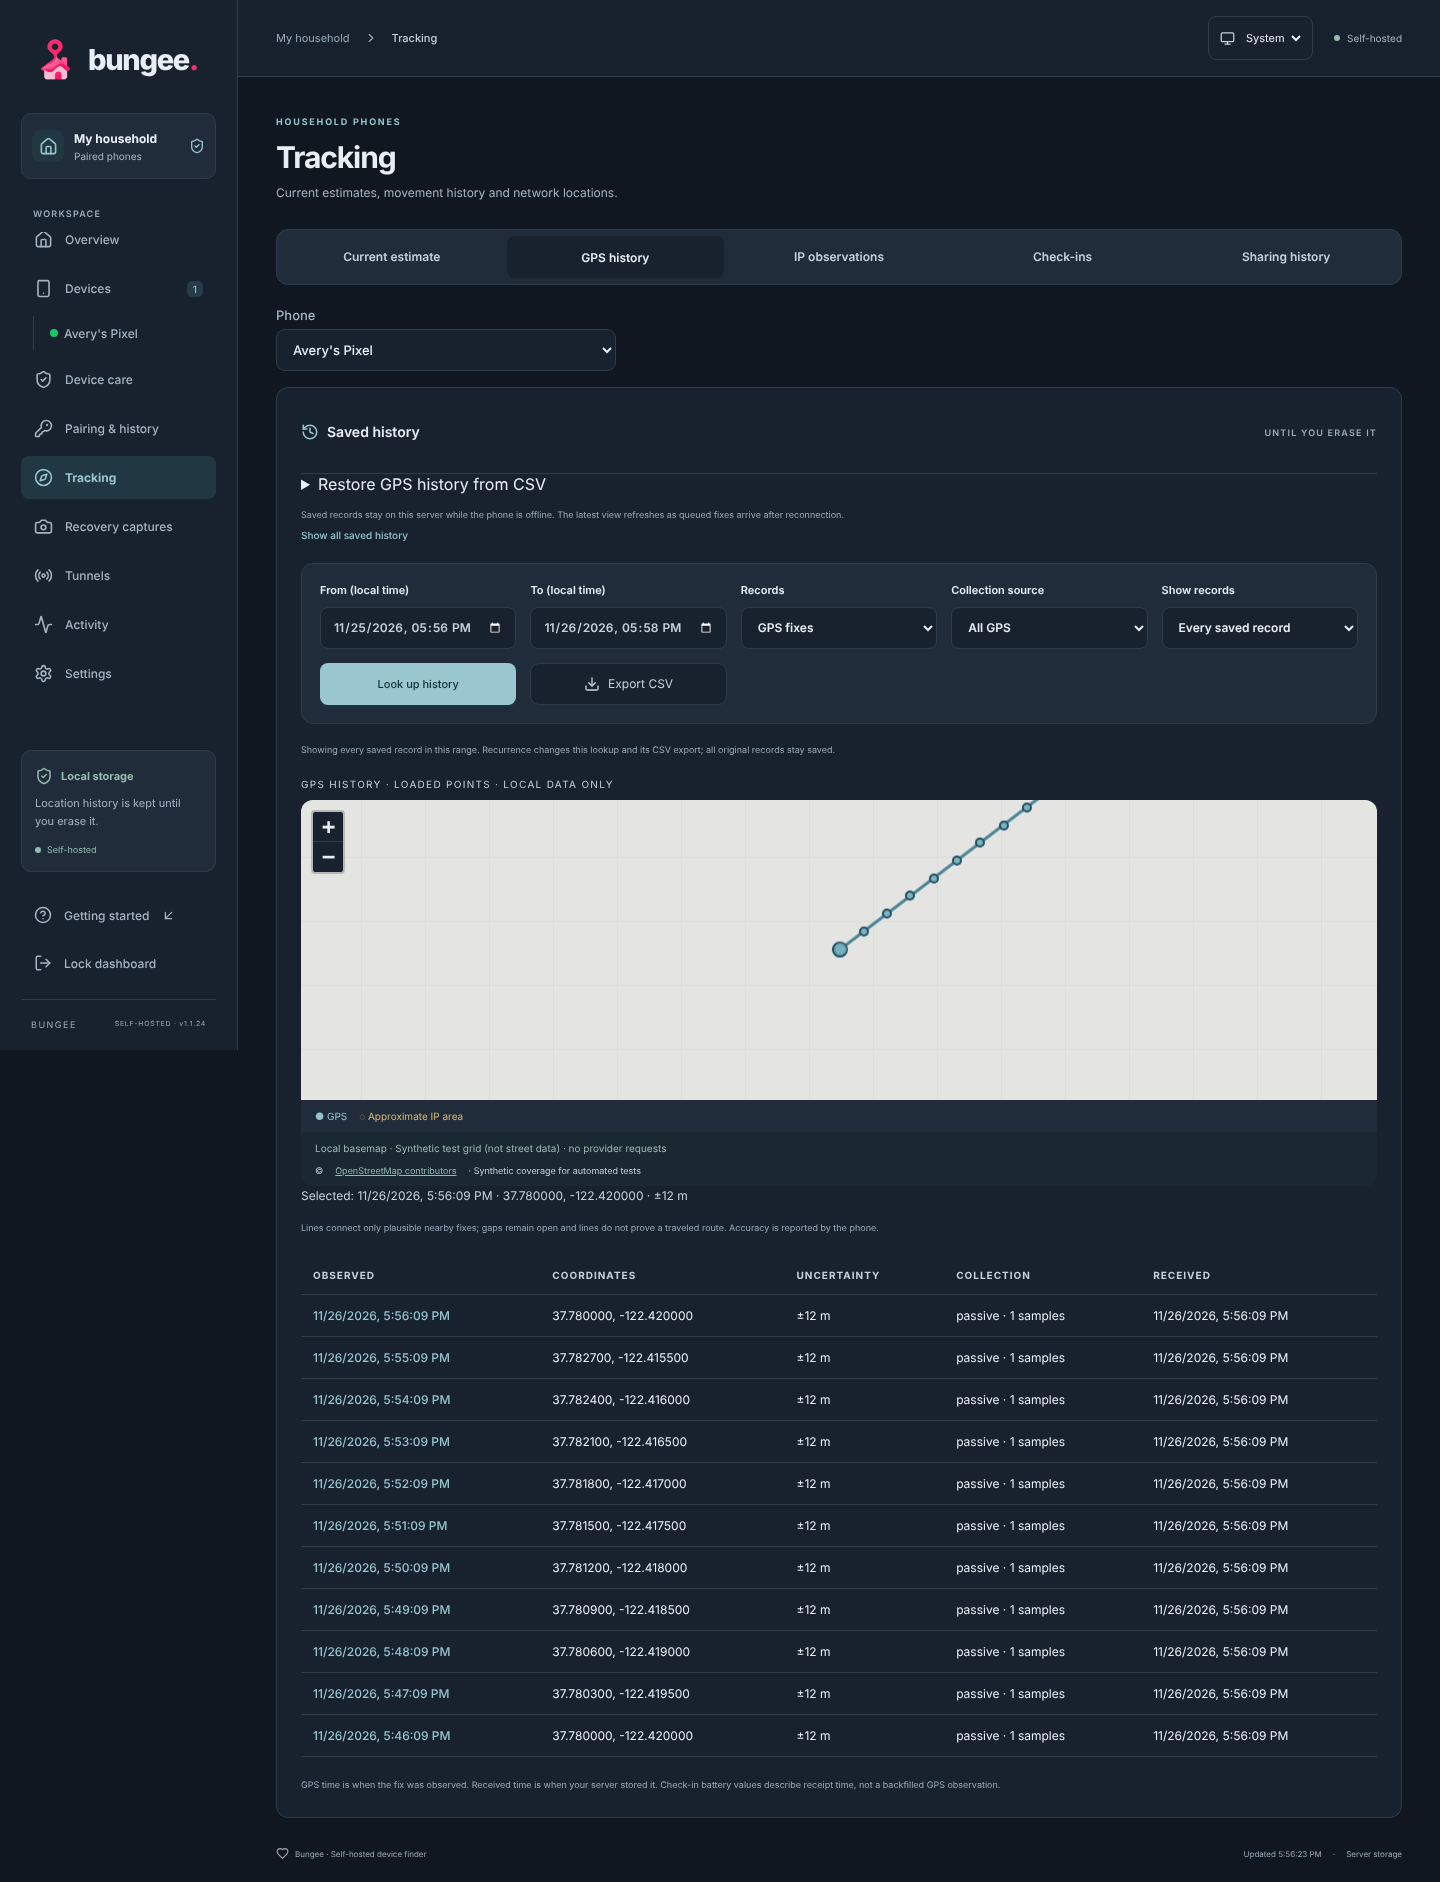
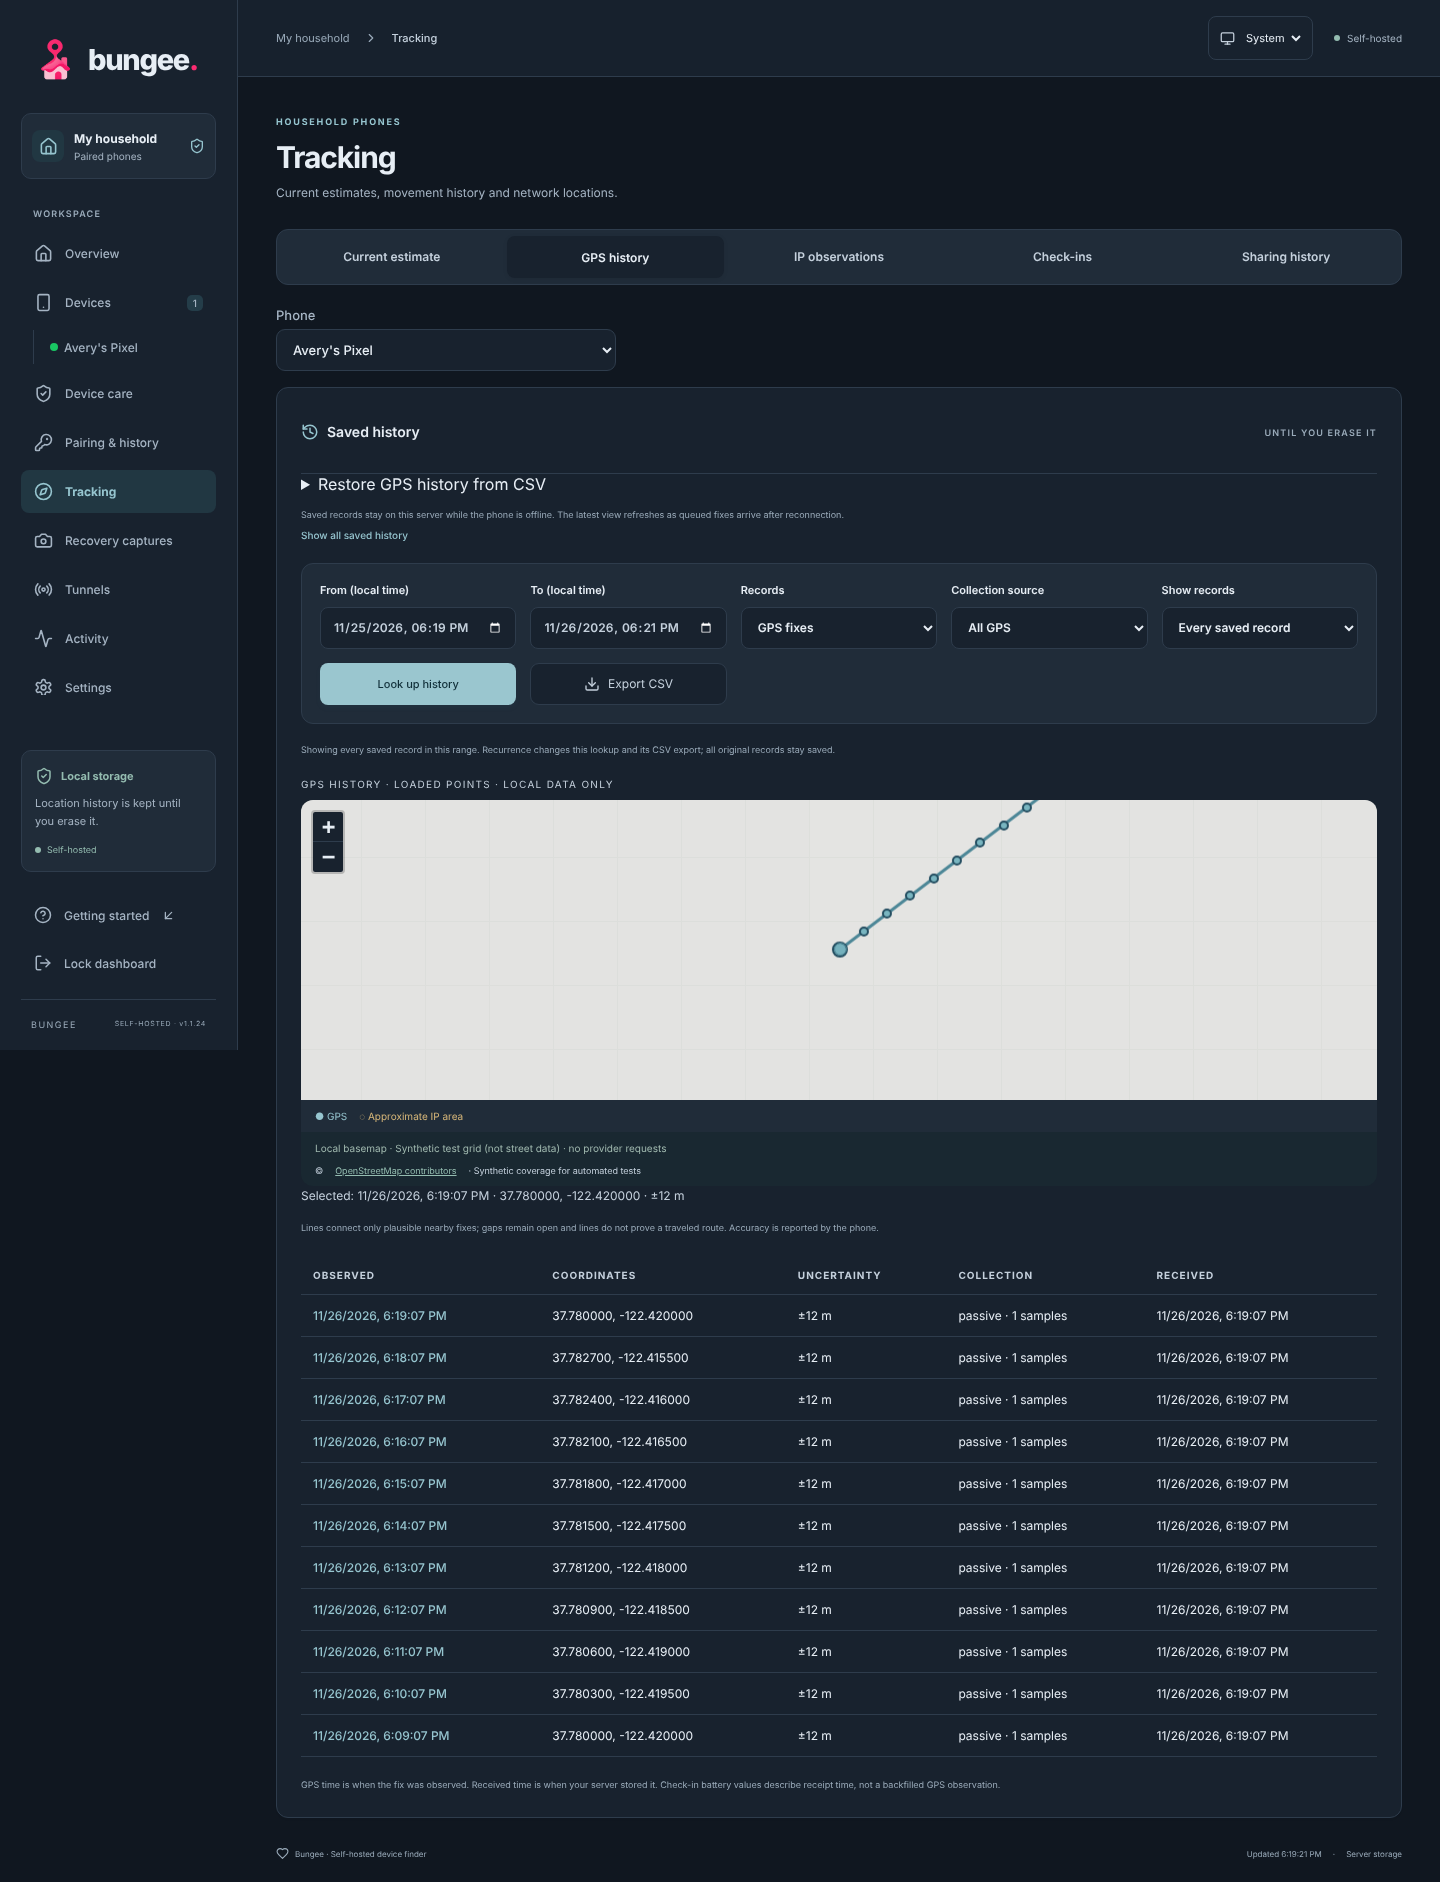
Replace the README lead screenshot that still showed the 1.1.22 GUI
overview.png is written by the vector-browser map-permission test, which only
passes for an unprivileged user (root bypasses chmod 000). Earlier runs as
root died before that capture, so the README lead image kept the old GUI
(v1.1.22, old phone card and links). Re-run that file and browser.mjs as a
non-root user so every capture reflects 1.1.24.

- overview.png and regional-street-tracking.png regenerated; the street-map
  fixture now names its phone "Avery's Pixel" instead of the default.
- Scroll the page and any scrolled inner list to the top before these
  captures; a scrolled navigation list had clipped the first sidebar row in
  six images (overview, street tracking and the four history captures).
- SCREENSHOTS and VALIDATION record the non-root requirement.

No release, version, workflow or signing file changed.

Claude-Session: https://claude.ai/code/session_01RQWcUGXYYEsW2cUDucLvP5

diff --git a/docs/VALIDATION.md b/docs/VALIDATION.md
@@ -8,13 +8,13 @@ This pass changed documentation, browser-fixture screenshot captures and one sty
 
 **What was documented.** The 1.1.24 behavior: active-profile focus and its limits, targeted profile commands, phone diagnostics, resumable and retried phone update downloads and what their messages (including `HTTP 404`) mean, date filters, GPS purge for all phones, read-only host `status`, and the renamed pages. Every dashboard label and number written into the documents was checked against the web, server and Android source, and several first drafts were corrected by that check.
 
-**Screenshots.** All captures were regenerated from the browser fixtures in a dark appearance, and six were added (device events, log storage and cleanup, the location-services notice, mobile Activity, phone diagnostics, phone app updates). They show synthetic fixture data. The container's fonts differ from the earlier captures, so every image changed.
+**Screenshots.** All captures were regenerated from the browser fixtures in a dark appearance, and six were added (device events, log storage and cleanup, the location-services notice, mobile Activity, phone diagnostics, phone app updates). They show synthetic fixture data. The container's fonts differ from the earlier captures, so every image changed. The lead overview and street-map captures come from `tests/vector-browser.mjs`, whose map-permission fixture only works for an unprivileged user, so that file and `tests/browser.mjs` were run as a non-root user to take them. The capture helpers now reset scrolled navigation lists first, because a list scrolled by an earlier click had clipped the first sidebar row in six images.
 
 | Check | Result |
 | --- | --- |
 | Documentation | `scripts/check-doc-images.py` passes (51 embedded images exist); 138 Python tests pass |
 | API (`npm test`) | 27 TypeScript-helper tests pass; 138 of 139 API tests pass. The one failure is "unreadable regional metadata cannot suppress the bundled overview…", which depends on file permissions and fails identically on unmodified code when run as root |
-| Browser | 44 of 47 Chromium checks pass and 2 Firefox checks were skipped (no Firefox installed). The one failure is the same "unreadable regional metadata" case |
+| Browser | 44 of 47 Chromium checks pass and 2 Firefox checks were skipped (no Firefox installed). The one failure is the same "unreadable regional metadata" case, which passes when the file is run as a non-root user (`vector-browser.mjs` 6 of 6, `browser.mjs` 20 of 20) |
 | Not run | Rust and Kotlin checks (no source changed in this pass), Android builds, Firefox, and every physical-device behavior. The documented 1.1.24 behaviors were reviewed against the source here, not exercised on a phone |
 
 ## 1.1.23: DDIL backfill, device-state events, and activity maintenance

diff --git a/docs/SCREENSHOTS.md b/docs/SCREENSHOTS.md
@@ -15,7 +15,7 @@ npm run test:browser
 python3 scripts/check-doc-images.py
 ```
 
-Use Node 24 and installed Chromium/Firefox (or set `CHROME_BIN`/`FIREFOX_BIN`). Each fixture starts temporary local servers, creates its own test state and cleans it up. Tests save PNGs directly from the browser; the committed screenshots are not composited UI mockups. `tests/browser.mjs`, `profile-companions-browser.mjs`, `vector-browser.mjs`, `manual-photos-browser.mjs`, `sharing-history-browser.mjs`, `activity-browser.mjs` and `device-records-browser.mjs` own the captures. Timestamps in the captures are the time the fixture ran, so recapturing changes the image bytes. Some static illustrations can produce identical PNG bytes when recaptured.
+Use Node 24 and installed Chromium/Firefox (or set `CHROME_BIN`/`FIREFOX_BIN`). Each fixture starts temporary local servers, creates its own test state and cleans it up. Tests save PNGs directly from the browser; the committed screenshots are not composited UI mockups. `tests/browser.mjs`, `profile-companions-browser.mjs`, `vector-browser.mjs`, `manual-photos-browser.mjs`, `sharing-history-browser.mjs`, `activity-browser.mjs` and `device-records-browser.mjs` own the captures. Timestamps in the captures are the time the fixture ran, so recapturing changes the image bytes. Run the browser tests as an unprivileged user: the map-permission fixture in `vector-browser.mjs`, which takes the lead overview, depends on file permissions that root bypasses. Some static illustrations can produce identical PNG bytes when recaptured.
 
 ## Overview and recovery
 
